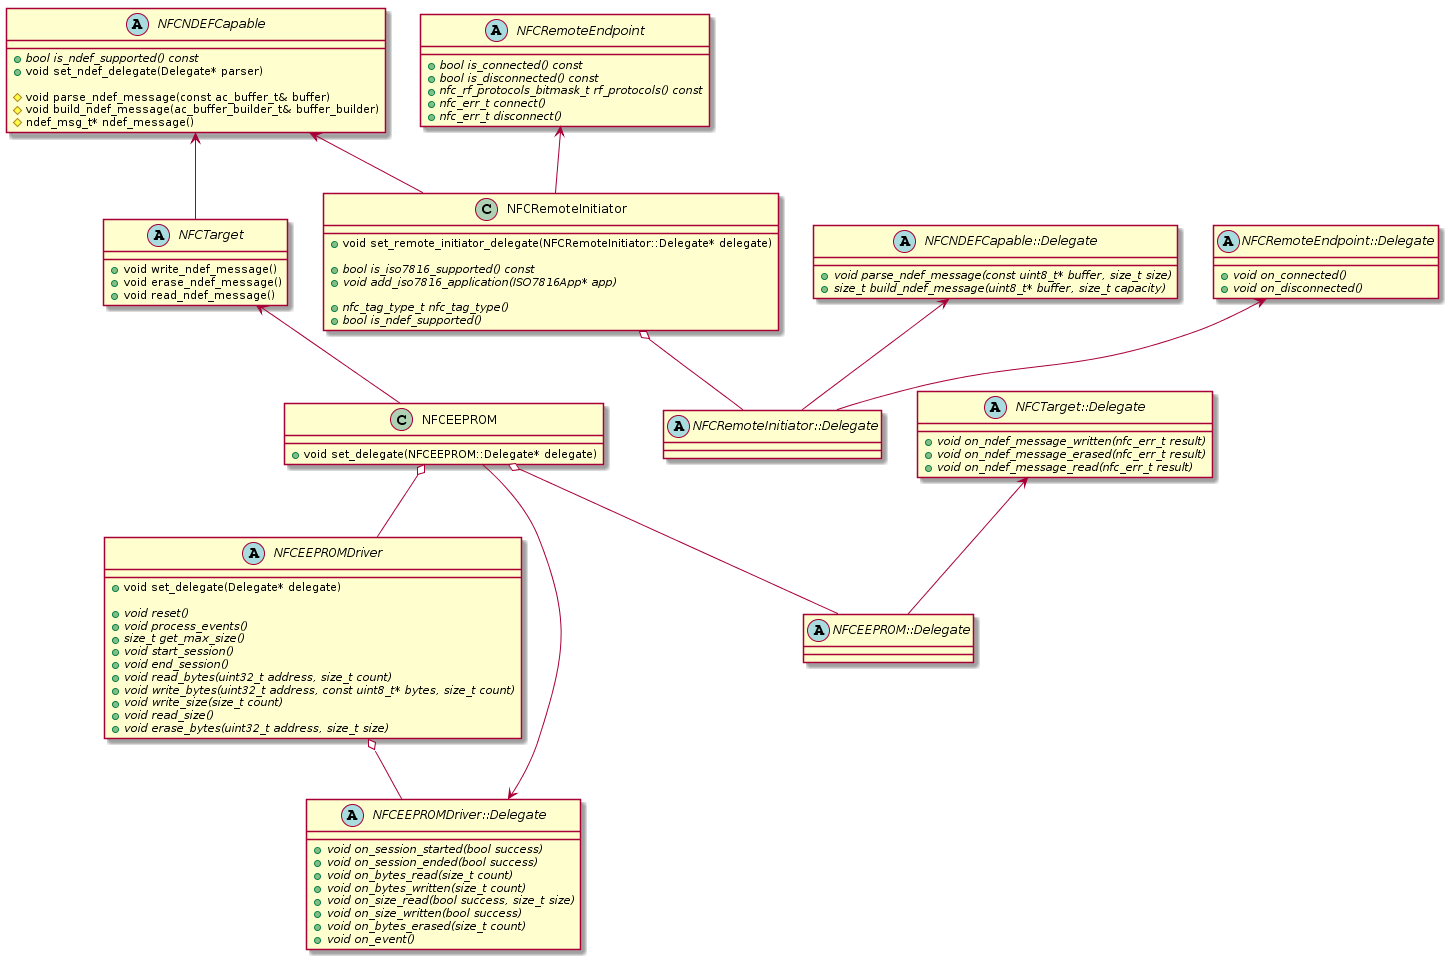
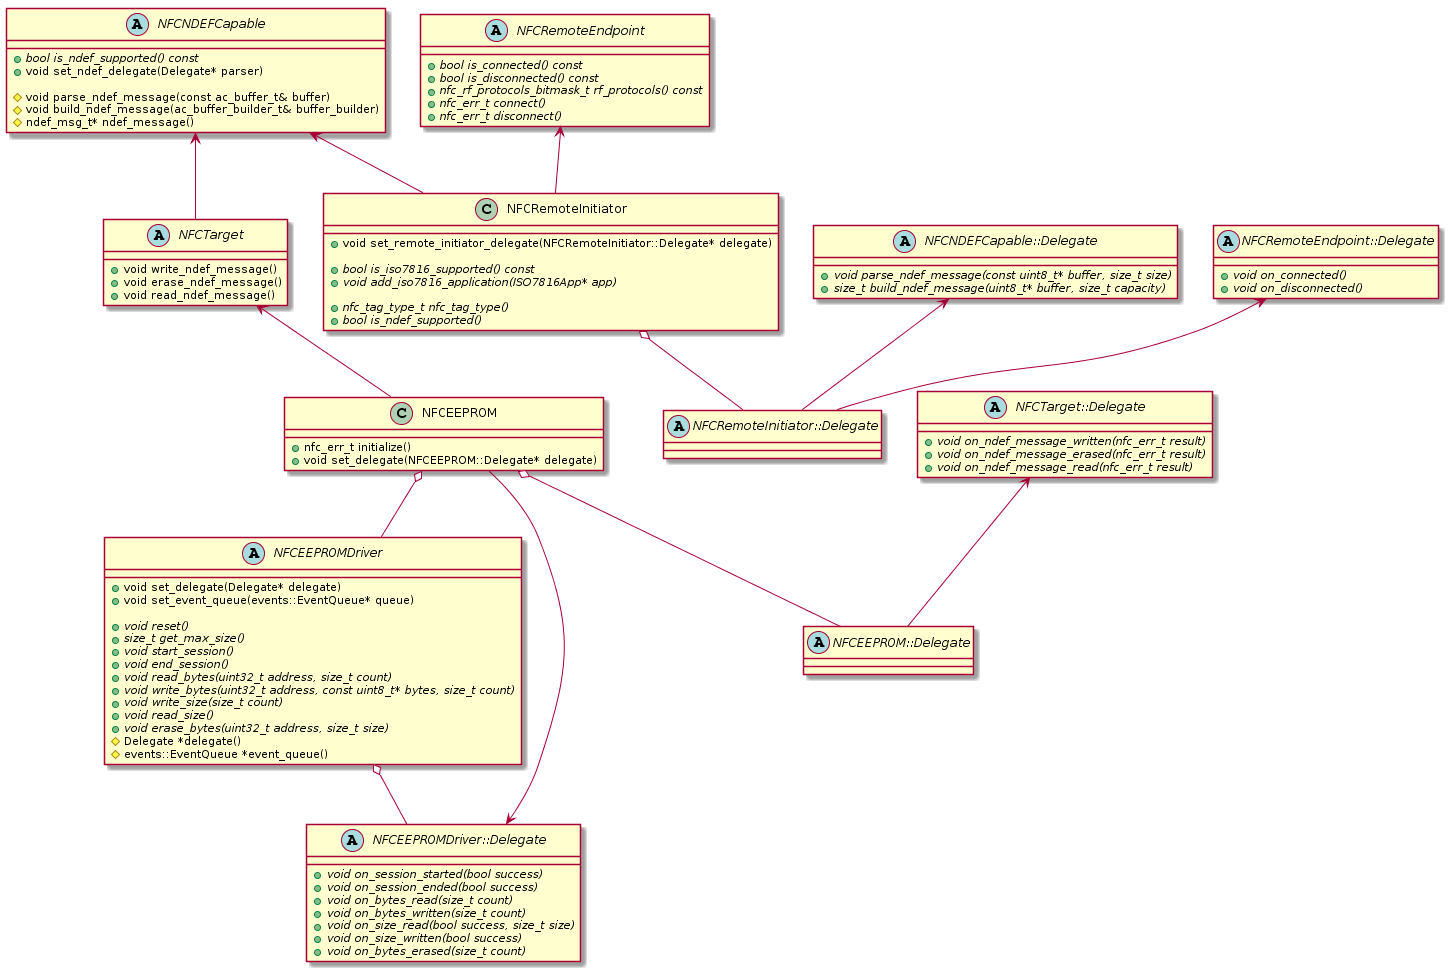
Updtate event handling model in NFCEEPROM

diff --git a/docs/design-documents/nfc/nfc_design.md b/docs/design-documents/nfc/nfc_design.md
@@ -537,7 +537,6 @@ The `set_size()` command is called to change the size of the buffer (within the 
 
 ```cpp
 void reset();
-void process_events();
 size_t get_max_size();
 void start_session();
 void end_session();
@@ -557,7 +556,12 @@ void on_bytes_written(size_t count);
 void on_size_read(bool success, size_t size);
 void on_size_written(bool success);
 void on_bytes_erased(size_t count);
-void on_event();
+```
+
+The implementation also has access to an event queue in case asynchronous operations need to be run:
+```cpp
+Delegate *delegate();
+events::EventQueue *event_queue();
 ```
 
 ### NCI Driver APIs
